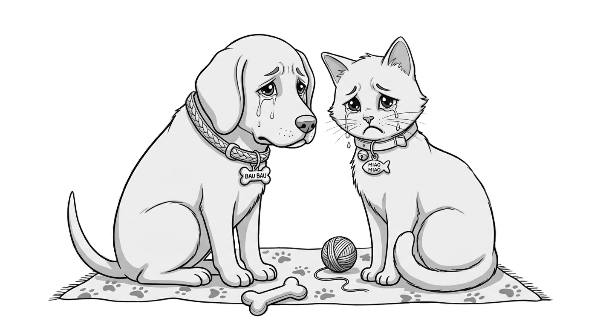
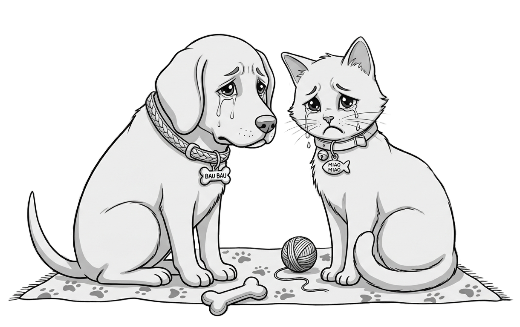
fix(404): resize page notfound for a better view

Changed region(s): [[0.0, 0.0917, 0.9846, 0.9786], [0.1846, 0.4281, 0.2462, 0.5505], [0.4615, 0.1223, 0.4923, 0.1529]]

diff --git a/src/pages/notfound/NotFound.module.css b/src/pages/notfound/NotFound.module.css
@@ -15,13 +15,13 @@
  width: 800px;
  height: 100%;
  display: grid;
- grid-template-columns: 1fr 1fr;
+ grid-template-columns: 1fr 450px;
  grid-template-rows: 2fr 1fr 1fr;
  grid-template-areas:  
  'image code'
  'image message'
  'image link';
- gap: 0px 0px;
+ gap: 0px 30px;
 }
 
 
@@ -42,7 +42,7 @@
  align-self: center;
  font-family: 'Roboto', sans-serif;
  color: white;
- font-size: 80px;
+ font-size: 90px;
  font-weight: 900;
 }
 
@@ -52,7 +52,7 @@
  grid-area: message;
  margin: 0;
  align-self: start;
- font-size: 18px;
+ font-size: 22px;
  font-family: 'Roboto', sans-serif;
  color: white;
  font-weight: bold;
@@ -67,6 +67,7 @@
  align-self: start;
  color: white;
  text-decoration: none;
+ font-size: 20px;
  font-weight: 600;
  background-color: rgb(255, 98, 0);
  border: 1px solid black;